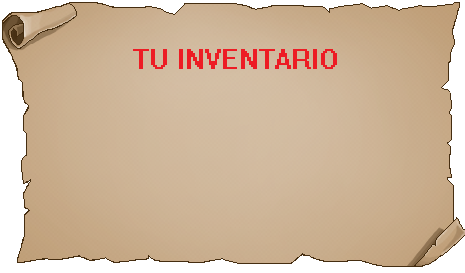
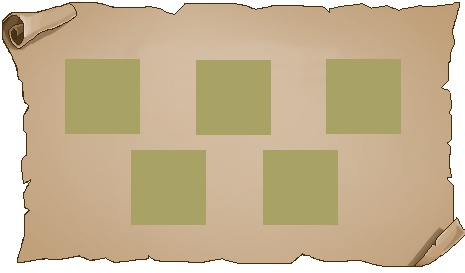
Changes on inventory

Changed region(s): [[0.1204, 0.1758, 0.8731, 0.4982], [0.5419, 0.5275, 0.7527, 0.8498], [0.271, 0.5275, 0.4516, 0.8498]]

diff --git a/src/scenes/UI.js b/src/scenes/UI.js
@@ -47,7 +47,7 @@ class UI extends Phaser.Scene {
         //White border box for superpowers
         this.superPowersBox = this.add.image(this.width/2 + 40, 8 , GameConstants.UI.SUPERPOWERSBOX).setScrollFactor(0).setDepth(10).setOrigin(0).setAlpha(1).setScale(0.75); 
         
-        //SuperPowersButtons
+        //SuperPowersButtons // TODO: Make them appear only for superPowers already picked
         this.superSpeedBtn = this.add.image(this.width/2 + 53, 17 , GameConstants.Sprites.superSpeed.OBJECT_NAME).setScrollFactor(0).setDepth(10).setOrigin(0).setAlpha(0).setScale();
         this.lowGravityBtn = this.add.image(this.width/2 + 88, 17 , GameConstants.Sprites.lowGravity.OBJECT_NAME).setScrollFactor(0).setDepth(10).setOrigin(0).setAlpha(0).setScale();
         this.superJumpBtn = this.add.image(this.width/2 + 125, 17 , GameConstants.Sprites.superJump.OBJECT_NAME).setScrollFactor(0).setDepth(10).setOrigin(0).setAlpha(0).setScale();
@@ -135,10 +135,6 @@ class UI extends Phaser.Scene {
             store.set(GameConstants.DB.DBNAME, this.DB);
         });
 
-        //1. Check DB for each superPower        
-        //Open DB
-        //IF superSpeed = addSuperSpeedImage 
-
         //Backpack for inventary
         this.inventoryBtn = this.add.image(this.width - 190, 8 , GameConstants.UI.INVENTORYBTN)
                     .setScrollFactor(0).setDepth(10).setOrigin(0).setAlpha(1).setScale();
@@ -150,6 +146,12 @@ class UI extends Phaser.Scene {
             this.playAgainButton.alpha = 0;
             this.inventoryBtn.alpha = 0;
             this.menuButton.alpha = 0;
+            //TODO This should be here?
+            /*this.superPowersBox.alpha = 0;
+            this.superSpeedBtn.alpha = 0;
+            this.lowGravityBtn.alpha = 0;
+            this.superJumpBtn.alpha = 0;
+            this.invencibilityBtn.alpha = 0;*/
 
             // Pausa la escena del level, sea cual sea
             this.backlevel = this.scene.get(this.scenename);
@@ -161,37 +163,48 @@ class UI extends Phaser.Scene {
             let inventoryBack = this.add.image(200, 100, GameConstants.UI.INVENTORY).setScrollFactor(0).setOrigin(0);
             inventoryBack.setInteractive();
 
+            this.inventoryText = this.add.dynamicBitmapText(this.width * 0.4, this.height *0.26, 'pixel', this.TG.tr('LEVELSELECT.INVENTORY'));        
             this.DB = store.get(GameConstants.DB.DBNAME);
-            
-            //Adjust for inventory and superPowers items // TODO
-            if (this.DB.inventory.obj1){
-                this.obj1 = this.add.image(300, 200, "obj1").setScale(1).setOrigin(0);
+            //console.log("Rosa del desierto: " + this.DB.inventory.desertRose);
+
+            //Print inventory objects the player has picked 
+            //TODO Change coordinates when images are ready
+            if (this.DB.inventory.desertRose){
+                this.desertRose = this.add.image(300, 200, "desertRose").setScale(1).setOrigin(0);
             }
 
-            if (this.DB.inventory.obj2){
-                this.obj2 = this.add.image(360, 200, "obj2").setScale(1).setOrigin(0);
+            if (this.DB.inventory.shell){
+                this.shell = this.add.image(360, 200, "shell").setScale(1).setOrigin(0);
             }
 
-            if (this.DB.inventory.obj3){
-                this.obj3 = this.add.image(420, 200, "obj3").setScale(1).setOrigin(0);
+            if (this.DB.inventory.lysFlower){
+                this.lysFlower = this.add.image(420, 200, "lysFlower").setScale(1).setOrigin(0);
             }
 
-            if (this.DB.inventory.obj4){
-                this.obj4 = this.add.image(480, 200, "obj4").setScale(1).setOrigin(0);
+            if (this.DB.inventory.pen){
+                this.pen = this.add.image(480, 200, "pen").setScale(1).setOrigin(0);
+            }
+
+            if (this.DB.inventory.star){
+                this.star = this.add.image(480, 200, "star").setScale(1).setOrigin(0);
             }
 
             inventoryBack.on('pointerdown', () => {
-                if (this.DB.inventory.obj1){
-                    this.obj1.destroy();
+                this.inventoryText.destroy();
+                if (this.DB.inventory.desertRose){
+                    this.desertRose.destroy();
                 }
-                if (this.DB.inventory.obj2){
-                    this.book.destroy();
+                if (this.DB.inventory.shell){
+                    this.shell.destroy();
                 }
-                if (this.DB.inventory.obj3){
-                    this.obj3.destroy();
+                if (this.DB.inventory.lysFlower){
+                    this.lysFlower.destroy();
                 }
-                if (this.DB.inventory.obj4){
-                    this.obj4.destroy();
+                if (this.DB.inventory.lysFlower){
+                    this.lysFlower.destroy();
+                }
+                if (this.DB.inventory.star){
+                    this.star.destroy();
                 }
 
                 this.closeInventory(mask, inventoryBack);                

diff --git a/src/Bootloader.js b/src/Bootloader.js
@@ -61,9 +61,9 @@ class Bootloader extends Phaser.Scene {
         //Inventory objects //TO DO finish
         this.load.image("desertRose", "img/objects/rose.png");
         this.load.image("shell", "img/objects/shell.png");
-        //this.load.image("TODO", "img/objects/TODO.png");
-        //this.load.image("TODO", "img/objects/TODO.png");
-        //this.load.image("TODO", "img/objects/TODO.png");
+        this.load.image("lysFlower", "img/objects/obj1.png"); //TODO
+        this.load.image("pen", "img/objects/obj2.png"); //TODO
+        this.load.image("star", "img/objects/star.png");
 
         //Superpowers objects //TO DO finish
         this.load.image("lowGravity", "img/objects/feather.png");

diff --git a/src/services/DB.js b/src/services/DB.js
@@ -19,9 +19,9 @@ const DB = {
     inventory : {//Inventory objects //TO DO
         desertRose: false,
         shell: false,
-        //objectName: false,
-        //objectName: false, 
-        //objectName: false
+        lysFlower: false,
+        pen: false, 
+        star: false
     },
     superPowers : {//Superpowers inventory objects //TO DO
         lowGravity : {
